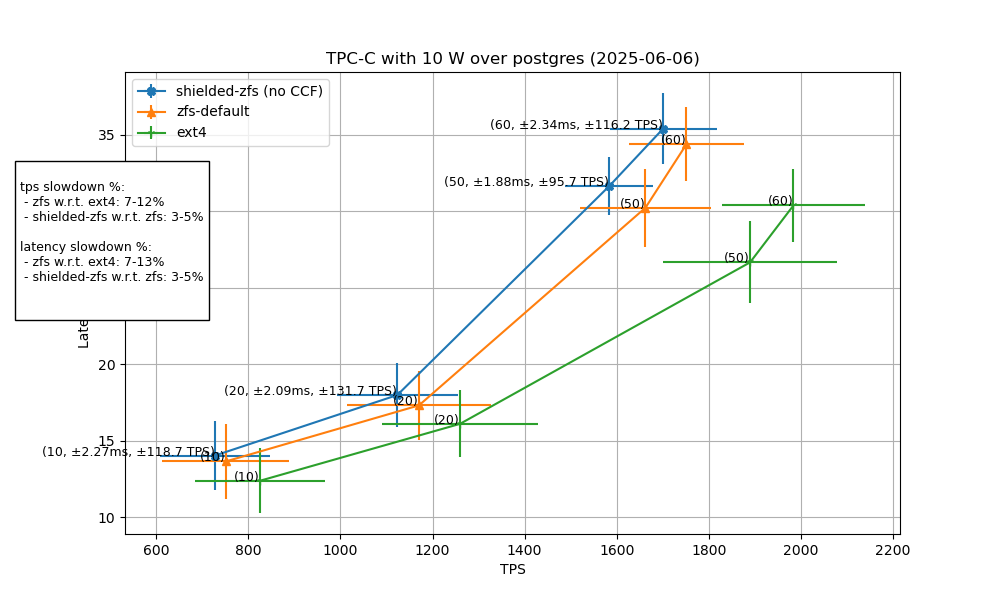
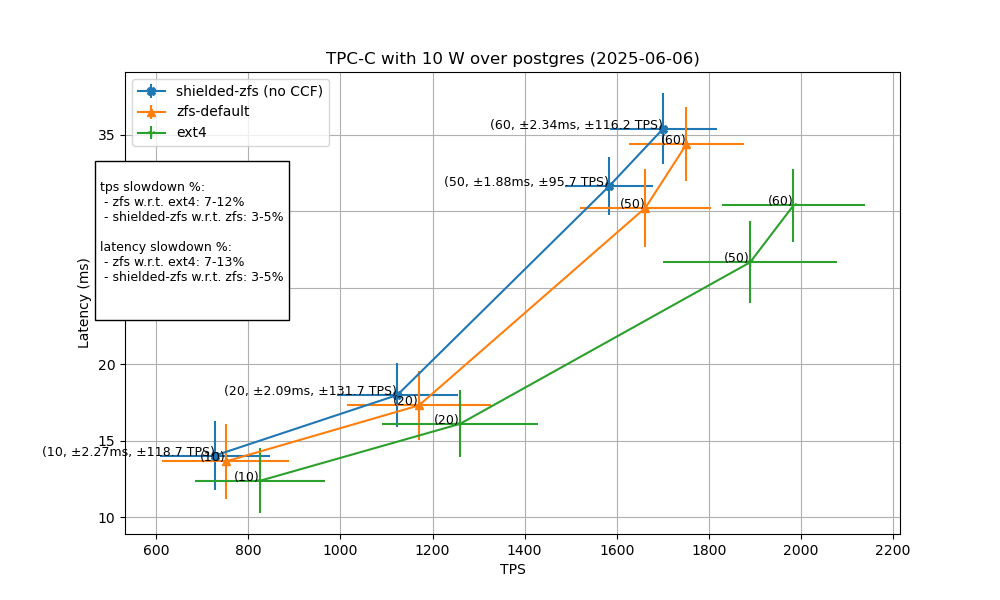
fixes at the script

diff --git a/scripts/lat-throughput.py b/scripts/lat-throughput.py
@@ -140,7 +140,7 @@ latency slowdown %:
 """
 
 # Add statistics text box
-plt.gcf().text(0.02, 0.6, stats_text, fontsize=9, va='center', bbox=dict(facecolor='white', alpha=1))
+plt.gcf().text(0.1, 0.6, stats_text, fontsize=9, va='center', bbox=dict(facecolor='white', alpha=1))
 
 
 
